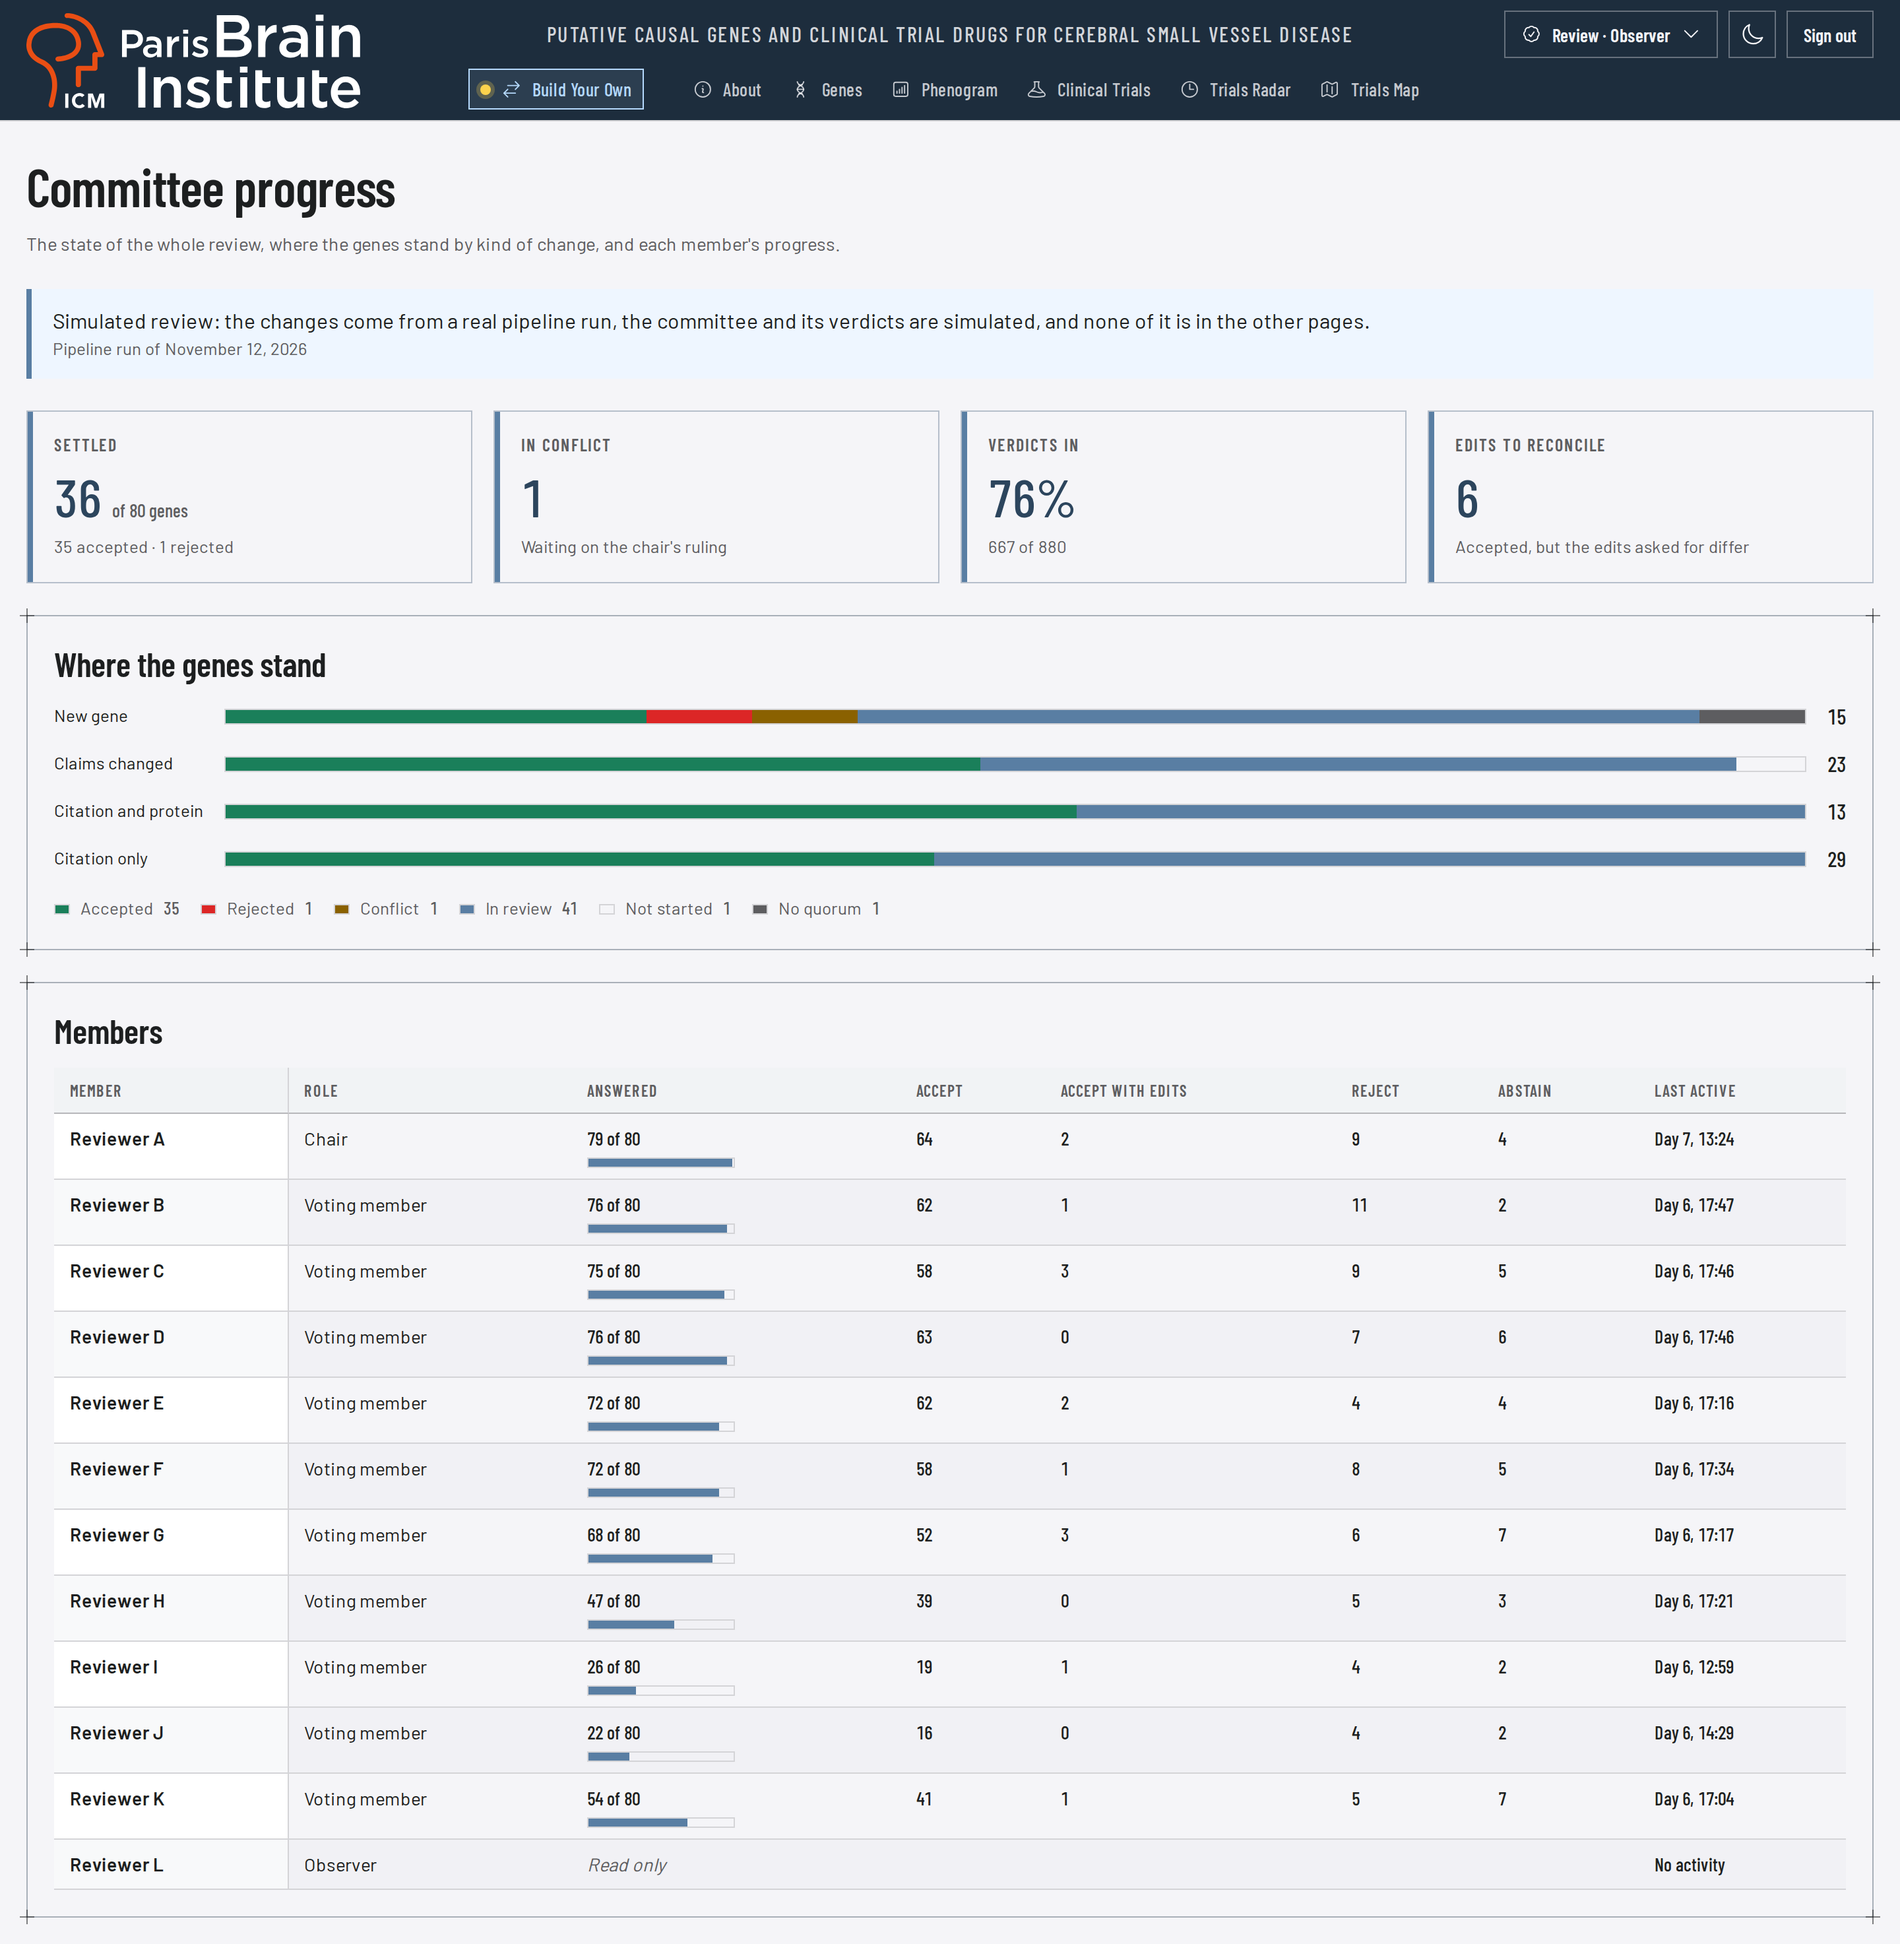
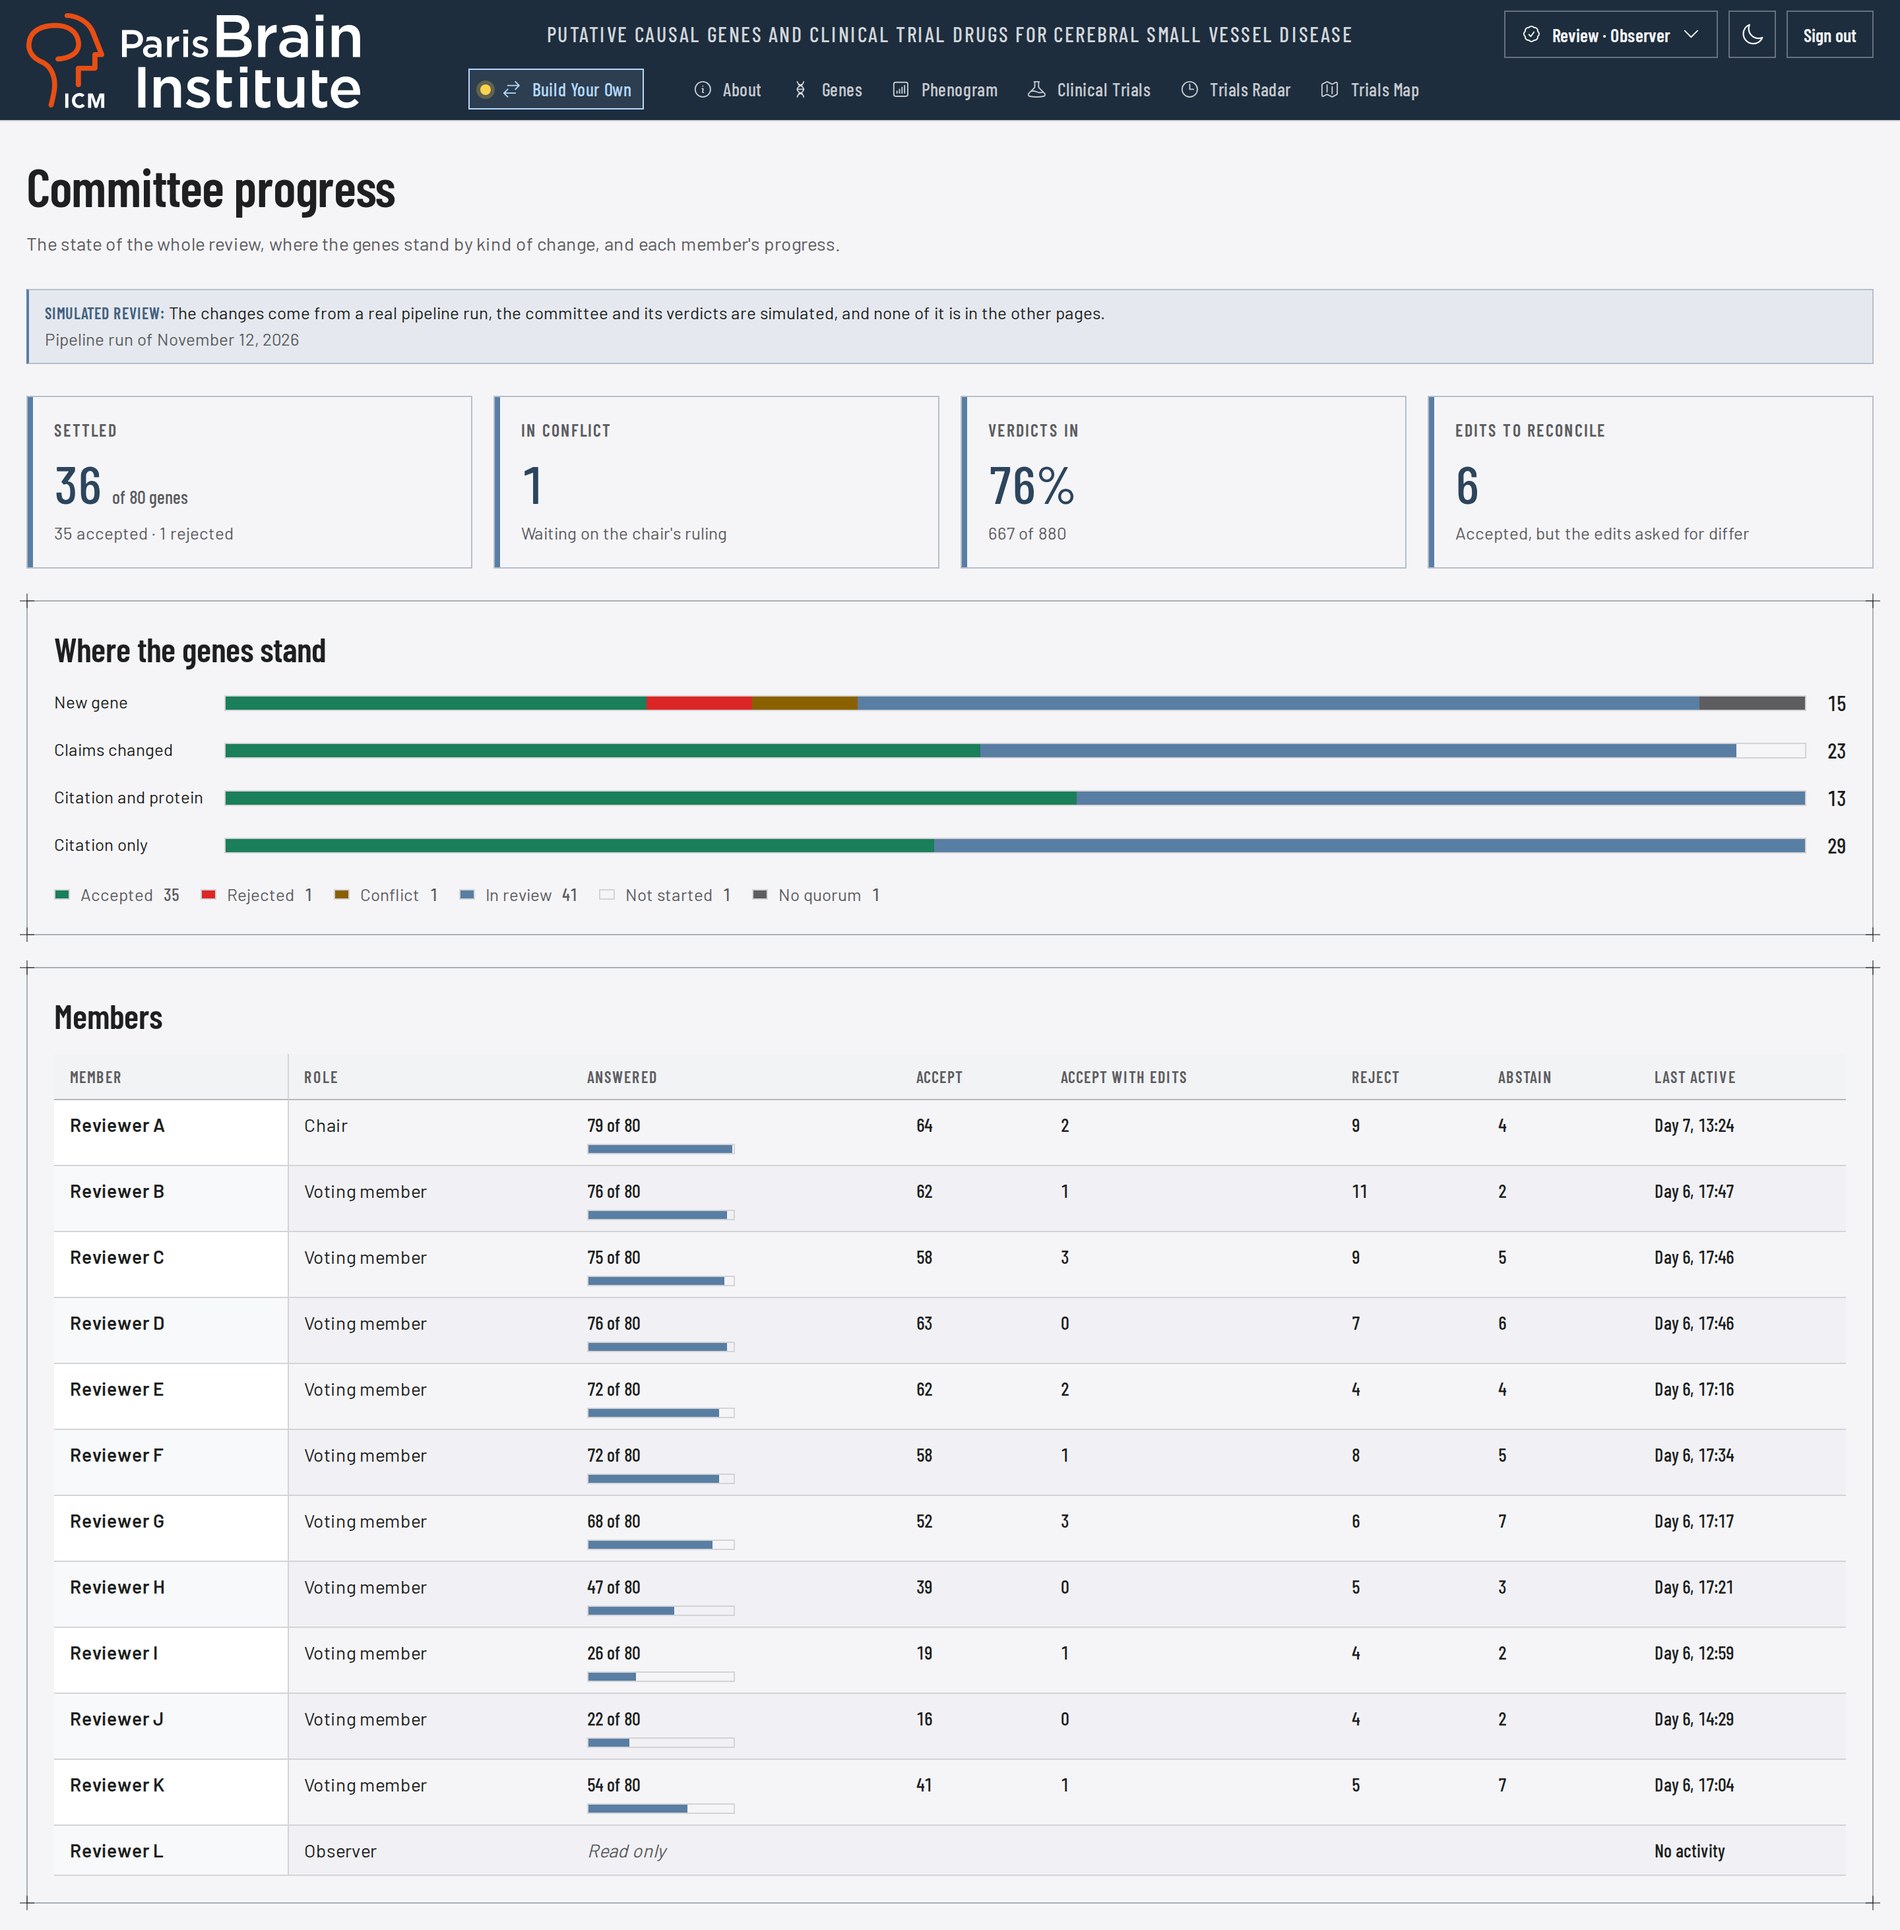
Give the review pages' simulated-review note the tip box's style

diff --git a/tests/styles_contract_test.ts b/tests/styles_contract_test.ts
@@ -1647,17 +1647,21 @@ Deno.test("a confidence fills in one colour taken from a red-to-green scale", ()
   );
 });
 
-Deno.test("the About notes wear the tip box's grammar", () => {
+Deno.test("the About and review notes wear the tip box's grammar", () => {
   // The two notes that head the About page are notes like the tips that
   // head the others: a hairline, a 2px rail, a 10% wash, the small type and
-  // an eyebrow label. `.notice` itself is left alone -- the adapt guide's
-  // alerts and the review notice wear it too.
+  // an eyebrow label, and so is the note that heads every review page.
+  // `.notice` itself is left alone -- the adapt guide's alerts wear it too.
   const flat = (text: string) => text.replace(/\s+/g, " ").trim();
   const body = flat(
-    css.match(/\.about-warning,\s*\.about-gold-notice\s*\{([^}]*)\}/)?.[1] ??
-      "",
+    css.match(
+      /\.about-warning,\s*\.about-gold-notice,\s*\.review-notice\s*\{([^}]*)\}/,
+    )?.[1] ?? "",
   );
-  assert(body !== "", "no `.about-warning, .about-gold-notice` rule found");
+  assert(
+    body !== "",
+    "no `.about-warning, .about-gold-notice, .review-notice` rule found",
+  );
   const colour = "var(--svd-notice-color, var(--svd-color-danger))";
   for (
     const declaration of [

diff --git a/tests/review_queue_test.tsx b/tests/review_queue_test.tsx
@@ -26,7 +26,7 @@ import {
   STANDING_LABELS,
   tallyWords,
 } from "../lib/review/display.ts";
-import { SIMULATED_NOTE } from "../lib/review/copy.ts";
+import { SIMULATED_LABEL, SIMULATED_NOTE } from "../lib/review/copy.ts";
 import { formatLongDate } from "../lib/constants.ts";
 import type { ReviewState } from "../lib/review/summary.ts";
 import type { GeneReview, Standing } from "../lib/review/rules.ts";
@@ -166,7 +166,13 @@ Deno.test("the page says the committee is simulated", () => {
   const html = renderToString(
     <ReviewQueueContent state={s} kind={null} standing={null} />,
   );
-  assertStringIncludes(html, escapeHtml(SIMULATED_NOTE));
+  // A note in the tip box's grammar: its eyebrow, then the sentence.
+  assertStringIncludes(
+    html,
+    '<div class="notice notice-neutral review-notice"><p>' +
+      `<strong class="note-label">${escapeHtml(SIMULATED_LABEL)}</strong> ` +
+      `${escapeHtml(SIMULATED_NOTE)}</p>`,
+  );
   assertStringIncludes(html, "<h1>Review queue</h1>");
   // The run the round comes from, which is day 0 of the simulated clock.
   assertStringIncludes(

diff --git a/components/review/ReviewNotice.tsx b/components/review/ReviewNotice.tsx
@@ -1,9 +1,10 @@
 import { formatLongDate } from "../../lib/constants.ts";
-import { SIMULATED_NOTE } from "../../lib/review/copy.ts";
+import { SIMULATED_LABEL, SIMULATED_NOTE } from "../../lib/review/copy.ts";
 
 /**
  * What every review page says first: the changes are real, the committee is
- * not. One block, so the three pages cannot word it three ways. Its second
+ * not. One block, so the three pages cannot word it three ways, in the note
+ * grammar the tips and the About page's notes share. Its second
  * line names the run the round comes from, which is day 0 of the simulated
  * clock the history and the members' activity count from.
  */
@@ -11,7 +12,9 @@ export function ReviewNotice({ runTimestamp }: { runTimestamp: string }) {
   const date = formatLongDate(runTimestamp);
   return (
     <div class="notice notice-neutral review-notice">
-      <p>{SIMULATED_NOTE}</p>
+      <p>
+        <strong class="note-label">{SIMULATED_LABEL}</strong> {SIMULATED_NOTE}
+      </p>
       {date && <p class="review-notice-run">Pipeline run of {date}</p>}
     </div>
   );

diff --git a/tests/review_display_test.ts b/tests/review_display_test.ts
@@ -180,9 +180,12 @@ Deno.test("the fixed copy is exported verbatim", () => {
     copy.REQUEST_NOTICE,
     "Nothing was sent. Once the committee is formed, a request like this will be evaluated by the administrator and answered within a few working days.",
   );
+  // The note's eyebrow and its sentence: together they read as the one line
+  // they were.
+  assertEquals(copy.SIMULATED_LABEL, "Simulated review:");
   assertEquals(
     copy.SIMULATED_NOTE,
-    "Simulated review: the changes come from a real pipeline run, the committee and its verdicts are simulated, and none of it is in the other pages.",
+    "The changes come from a real pipeline run, the committee and its verdicts are simulated, and none of it is in the other pages.",
   );
 });
 

diff --git a/lib/review/copy.ts b/lib/review/copy.ts
@@ -20,5 +20,7 @@ export const REQUEST_DEMO =
 export const REQUEST_SUBMIT = "Send request";
 export const REQUEST_NOTICE =
   "Nothing was sent. Once the committee is formed, a request like this will be evaluated by the administrator and answered within a few working days.";
+/** The eyebrow of the note every review page opens on, and its sentence. */
+export const SIMULATED_LABEL = "Simulated review:";
 export const SIMULATED_NOTE =
-  "Simulated review: the changes come from a real pipeline run, the committee and its verdicts are simulated, and none of it is in the other pages.";
+  "The changes come from a real pipeline run, the committee and its verdicts are simulated, and none of it is in the other pages.";

diff --git a/assets/app.css b/assets/app.css
@@ -2885,10 +2885,11 @@ svg {
    the notice's heavier one: a hairline, a 2px rail, a 10% wash of the note's
    own colour and the small type, under an eyebrow (`.note-label`). They keep
    the full width, which a tip does not: the gold-only note holds the preview
-   switch. `.notice` itself is unchanged -- the adapt guide's alerts and the
-   review notice wear it. */
+   switch. The note that heads every review page is one of them. `.notice`
+   itself is unchanged -- the adapt guide's alerts wear it. */
 .about-warning,
-.about-gold-notice {
+.about-gold-notice,
+.review-notice {
   border: 1px solid
     color-mix(
     in oklab,
